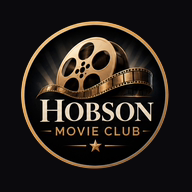
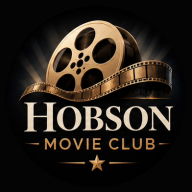
feat: midnight blue and gold look (design F-2b) (#34)
* feat: midnight blue and gold look (design F-2b)

* feat: flat F-2b layout (curtain header, no boxed cards, centred movie)

* fix: remove default fieldset border on survey questions

* feat: curtain-style emails, gold checkboxes and radios

* feat: ringless app icons that fill the square; round header logo with CSS gold outline

---------

diff --git a/css/style.css b/css/style.css
@@ -1,38 +1,54 @@
-/* Look borrowed from spotle.movie: deep navy, soft white text, gold glowing buttons.
+/* Look: "midnight blue and gold" (design option F-2b): deep navy, soft white text, gold buttons, a curtain stripe above the banner.
    Fonts: only stacks whose first choices exist on Windows, Mac, iOS and Android.
    Don't name a font that only exists on some devices (e.g. Impact is missing on phones);
    if we want a special font later, ship the font file in the repo instead. */
-:root { --bg: #060b14; --card: #0d1626; --text: #eaf0ff; --muted: #7f8bab; --accent: #f0b13f; --accent2: #d99a2b; --line: #1d2a44; --err: #ff7a7a; }
+:root { --bg: #090d18; --card: #0f172a; --text: #eaeef7; --muted: #9fb0d0; --accent: #d4af6a; --accent2: #c19e5a; --line: #2a3a66; --err: #ff7a7a; }
 * { box-sizing: border-box; }
 /* Background: on Android Chrome/Brave the screen gets taller when the top bar hides, and a background painted
    on body (or html) stays at the old height until scrolling stops, leaving a white strip. So the page colour is
    solid on html, and the glow is a fixed layer sized to the largest screen (lvh) so it already covers the taller view. */
 html { background-color: var(--bg); color-scheme: dark; }
-body { margin: 0; color: var(--text); font: 17px/1.5 system-ui, -apple-system, "Segoe UI", Roboto, sans-serif; }
+body { margin: 0; color: var(--text); font: 17px/1.55 Georgia, "Times New Roman", serif; }
+button, input, select, textarea, .hint { font-family: system-ui, -apple-system, "Segoe UI", Roboto, sans-serif; }
 body::before { content: ""; position: fixed; top: 0; left: 0; right: 0; height: 100%; height: 100lvh; z-index: -1; pointer-events: none;
-  background: radial-gradient(ellipse at top, #0f1c36 0%, transparent 55%) no-repeat; }
-header { max-width: 720px; margin: 0 auto; padding: 16px 16px 8px; text-align: right; }
+  background: radial-gradient(ellipse at top, #14224a 0%, transparent 55%) no-repeat; }
+/* Full-width curtain band at the top of every page (F-2b). */
+header { position: relative; margin: 0 0 8px; }
 h1 { margin: 0; }
-h1 img { display: block; width: 100%; height: auto; border-radius: 14px; border: 1px solid var(--line); }
-h2 { font: 600 1.4rem/1.2 Georgia, "Times New Roman", serif; letter-spacing: .02em; }
+h1.curtain { background: repeating-linear-gradient(90deg, #14224a 0 26px, #0d1836 26px 52px); border-bottom: 3px solid var(--accent); padding: 14px 16px; }
+h1.curtain a { display: flex; flex-direction: column; align-items: center; gap: 8px; color: var(--accent); text-decoration: none; }
+h1.curtain img { width: 72px; height: 72px; border-radius: 50%; border: 2px solid var(--accent); }
+h1.curtain span { font: 600 12px/1 system-ui, -apple-system, "Segoe UI", Roboto, sans-serif; letter-spacing: .34em; text-transform: uppercase; }
+h2 { font: italic 400 1.7rem/1.2 Georgia, "Times New Roman", serif; letter-spacing: .02em; text-align: center; margin: 22px 0 18px; }
+h2::after { content: ""; display: block; width: 60px; height: 2px; background: var(--accent); margin: 12px auto 0; }
 main { max-width: 720px; margin: 0 auto; padding: 0 16px 64px; }
-.card { background: var(--card); border: 1px solid var(--line); border-radius: 14px; padding: 18px; margin-bottom: 16px; }
-fieldset.card { min-inline-size: 0; }
+/* Not a boxed card: a plain section with a thin line above it (F-2b). */
+.card { border-top: 1px solid var(--line); padding: 18px 0; margin: 0; }
+fieldset.card { min-inline-size: 0; border: 0; border-top: 1px solid var(--line); margin: 0; }
 /* Floating the legend makes it sit inside the card instead of straddling the top border. */
 legend { float: left; width: 100%; padding: 0 0 10px; font-weight: 600; }
 legend + * { clear: both; }
 label { display: block; padding: 6px 0; cursor: pointer; }
 label.disabled { opacity: .4; cursor: not-allowed; }
-input[type=checkbox], input[type=radio] { margin-right: 8px; accent-color: var(--accent); transform: scale(1.2); }
-input[type=text], input[type=email], textarea { width: 100%; background: #08101e; color: var(--text); border: 1px solid var(--line); border-radius: 10px; padding: 10px; font: inherit; margin: 4px 0; }
+/* Gold-outlined boxes and circles (F-2b); the gold fill with a dark tick shows when chosen. */
+input[type=checkbox], input[type=radio] { appearance: none; -webkit-appearance: none; width: 20px; height: 20px; margin: 0 10px -4px 0; border: 1px solid var(--accent); background: transparent; display: inline-grid; place-content: center; cursor: pointer; }
+input[type=checkbox] { border-radius: 4px; }
+input[type=radio] { border-radius: 50%; }
+input[type=checkbox]::before, input[type=radio]::before { content: ""; width: 10px; height: 10px; background: var(--accent); transform: scale(0); transition: transform .1s; }
+input[type=checkbox]::before { clip-path: polygon(14% 44%, 0 65%, 50% 100%, 100% 16%, 80% 0, 43% 62%); width: 12px; height: 12px; }
+input[type=radio]::before { border-radius: 50%; }
+input:checked::before { transform: scale(1); }
+input[type=checkbox]:checked, input[type=radio]:checked { background: transparent; }
+input[type=checkbox]:focus-visible, input[type=radio]:focus-visible { outline: 2px solid var(--accent); outline-offset: 2px; }
+input[type=text], input[type=email], textarea { width: 100%; background: #0a1020; color: var(--text); border: 1px solid var(--line); border-radius: 10px; padding: 10px; font: inherit; margin: 4px 0; }
 input:focus, textarea:focus { outline: 2px solid var(--accent); outline-offset: 1px; }
 textarea { min-height: 90px; resize: vertical; }
-button { background: linear-gradient(180deg, var(--accent), var(--accent2)); color: #1a1100; border: 0; border-radius: 12px; padding: 14px 28px; font: inherit; font-weight: 700; letter-spacing: .06em; text-transform: uppercase; cursor: pointer; box-shadow: 0 0 22px rgba(240, 177, 63, .28); }
+button { background: var(--accent); color: #0a1020; border: 0; border-radius: 10px; padding: 15px 28px; font-size: 1rem; font-weight: 700; letter-spacing: .1em; text-transform: uppercase; cursor: pointer; }
 button:hover:not(:disabled) { filter: brightness(1.08); }
 button:disabled { opacity: .5; cursor: default; box-shadow: none; }
 /* Quiet secondary button, used on the lab and admin pages. */
-button.ghost { background: transparent; color: var(--muted); border: 1px solid var(--line); box-shadow: none; text-transform: none; letter-spacing: 0; font-weight: 500; padding: 8px 14px; margin-bottom: 14px; }
-#signout { margin-top: 10px; background: var(--card); color: var(--muted); border: 1px solid var(--line); box-shadow: none; padding: 8px 14px; font-size: .8rem; }
+button.ghost { background: transparent; color: var(--accent); border: 1px solid var(--accent); box-shadow: none; text-transform: none; letter-spacing: 0; font-weight: 500; padding: 8px 14px; margin-bottom: 14px; }
+#signout { position: absolute; top: 10px; right: 12px; margin: 0; background: rgba(9, 13, 24, .7); color: var(--muted); border: 1px solid var(--line); box-shadow: none; padding: 6px 12px; font-size: .75rem; }
 button.muted { background: transparent; box-shadow: none; text-transform: none; font-weight: 500; letter-spacing: 0; }
 .muted { color: var(--muted); }
 .error { color: var(--err); }

diff --git a/supabase/email-templates/magic-link.html b/supabase/email-templates/magic-link.html
@@ -1,25 +1,26 @@
 <!doctype html>
 <html lang="en">
-<body style="margin:0;padding:0;background-color:#060b14;">
-<table role="presentation" width="100%" cellpadding="0" cellspacing="0" border="0" bgcolor="#060b14" style="background-color:#060b14;">
+<body style="margin:0;padding:0;background-color:#090d18;">
+<table role="presentation" width="100%" cellpadding="0" cellspacing="0" border="0" bgcolor="#090d18" style="background-color:#090d18;">
   <tr><td align="center" style="padding:24px 12px;">
     <table role="presentation" width="100%" cellpadding="0" cellspacing="0" border="0" style="max-width:560px;">
-      <tr><td style="padding-bottom:16px;">
-        <a href="https://hobsonmovieclub.com/"><img src="https://hobsonmovieclub.com/img/banner.jpg" alt="Hobson Movie Club" width="560" style="display:block;width:100%;max-width:560px;height:auto;border:0;border-radius:12px;"></a>
+      <tr><td align="center" bgcolor="#14224a" style="background-color:#14224a;background-image:repeating-linear-gradient(90deg,#14224a 0,#14224a 26px,#0d1836 26px,#0d1836 52px);border-bottom:3px solid #d4af6a;padding:16px 12px;">
+        <a href="https://hobsonmovieclub.com/" style="text-decoration:none;"><img src="https://hobsonmovieclub.com/img/logo-round.png" alt="" width="68" height="68" style="display:block;margin:0 auto 8px;width:68px;height:68px;border:2px solid #d4af6a;border-radius:36px;"><span style="font-family:Arial,Helvetica,sans-serif;font-size:12px;font-weight:bold;letter-spacing:4px;text-transform:uppercase;color:#d4af6a;">Hobson Movie Club</span></a>
       </td></tr>
-      <tr><td bgcolor="#0d1626" style="background-color:#0d1626;border:1px solid #1d2a44;border-radius:12px;padding:28px 24px;font-family:Arial,Helvetica,sans-serif;color:#eaf0ff;font-size:16px;line-height:1.5;">
-        <h1 style="margin:0 0 12px;font-family:Georgia,'Times New Roman',serif;font-size:24px;line-height:1.25;font-weight:bold;color:#eaf0ff;">Sign in to Hobson Movie Club</h1>
-        <p style="margin:0 0 24px;color:#eaf0ff;">Tap the button to sign in. The link works once and expires soon.</p>
+      <tr><td style="height:16px;font-size:0;line-height:0;">&nbsp;</td></tr>
+      <tr><td bgcolor="#0f172a" style="background-color:#0f172a;border-top:1px solid #2a3a66;padding:28px 8px;font-family:Georgia,'Times New Roman',serif;color:#eaeef7;font-size:16px;line-height:1.5;">
+        <h1 style="margin:0 0 12px;font-family:Georgia,'Times New Roman',serif;font-size:24px;line-height:1.25;font-weight:bold;color:#eaeef7;">Sign in to Hobson Movie Club</h1>
+        <p style="margin:0 0 24px;color:#eaeef7;">Tap the button to sign in. The link works once and expires soon.</p>
         <table role="presentation" cellpadding="0" cellspacing="0" border="0" style="margin:0 0 24px;">
-          <tr><td align="center" bgcolor="#f0b13f" style="background-color:#f0b13f;border-radius:10px;">
-            <a href="{{ .ConfirmationURL }}" style="display:inline-block;padding:14px 28px;font-family:Arial,Helvetica,sans-serif;font-size:15px;font-weight:bold;letter-spacing:1px;text-transform:uppercase;color:#1a1100;text-decoration:none;">Sign in</a>
+          <tr><td align="center" bgcolor="#d4af6a" style="background-color:#d4af6a;border-radius:10px;">
+            <a href="{{ .ConfirmationURL }}" style="display:inline-block;padding:14px 28px;font-family:Arial,Helvetica,sans-serif;font-size:15px;font-weight:bold;letter-spacing:1px;text-transform:uppercase;color:#0a1020;text-decoration:none;">Sign in</a>
           </td></tr>
         </table>
-        <p style="margin:0 0 8px;color:#7f8bab;font-size:14px;">On a phone and the button opens the wrong app? Type this code on the sign-in page instead:</p>
-        <table role="presentation" cellpadding="0" cellspacing="0" border="0"><tr><td bgcolor="#08101e" style="background-color:#08101e;border:1px solid #1d2a44;border-radius:10px;padding:12px 20px;font-family:'Courier New',Courier,monospace;font-size:28px;font-weight:bold;letter-spacing:6px;color:#f0b13f;">{{ .Token }}</td></tr></table>
+        <p style="margin:0 0 8px;color:#9fb0d0;font-size:14px;">On a phone and the button opens the wrong app? Type this code on the sign-in page instead:</p>
+        <table role="presentation" cellpadding="0" cellspacing="0" border="0"><tr><td bgcolor="#0a1020" style="background-color:#0a1020;border:1px solid #2a3a66;border-radius:10px;padding:12px 20px;font-family:'Courier New',Courier,monospace;font-size:28px;font-weight:bold;letter-spacing:6px;color:#d4af6a;">{{ .Token }}</td></tr></table>
       </td></tr>
-      <tr><td align="center" style="padding:16px 8px;font-family:Arial,Helvetica,sans-serif;font-size:12px;line-height:1.5;color:#7f8bab;">
-        Hobson Movie Club &middot; <a href="https://hobsonmovieclub.com/" style="color:#7f8bab;">hobsonmovieclub.com</a><br>
+      <tr><td align="center" style="padding:16px 8px;font-family:Arial,Helvetica,sans-serif;font-size:12px;line-height:1.5;color:#9fb0d0;">
+        Hobson Movie Club &middot; <a href="https://hobsonmovieclub.com/" style="color:#9fb0d0;">hobsonmovieclub.com</a><br>
         Didn't ask for this email? You can safely ignore it.
       </td></tr>
     </table>

diff --git a/supabase/email-templates/invite.html b/supabase/email-templates/invite.html
@@ -1,23 +1,24 @@
 <!doctype html>
 <html lang="en">
-<body style="margin:0;padding:0;background-color:#060b14;">
-<table role="presentation" width="100%" cellpadding="0" cellspacing="0" border="0" bgcolor="#060b14" style="background-color:#060b14;">
+<body style="margin:0;padding:0;background-color:#090d18;">
+<table role="presentation" width="100%" cellpadding="0" cellspacing="0" border="0" bgcolor="#090d18" style="background-color:#090d18;">
   <tr><td align="center" style="padding:24px 12px;">
     <table role="presentation" width="100%" cellpadding="0" cellspacing="0" border="0" style="max-width:560px;">
-      <tr><td style="padding-bottom:16px;">
-        <a href="https://hobsonmovieclub.com/"><img src="https://hobsonmovieclub.com/img/banner.jpg" alt="Hobson Movie Club" width="560" style="display:block;width:100%;max-width:560px;height:auto;border:0;border-radius:12px;"></a>
+      <tr><td align="center" bgcolor="#14224a" style="background-color:#14224a;background-image:repeating-linear-gradient(90deg,#14224a 0,#14224a 26px,#0d1836 26px,#0d1836 52px);border-bottom:3px solid #d4af6a;padding:16px 12px;">
+        <a href="https://hobsonmovieclub.com/" style="text-decoration:none;"><img src="https://hobsonmovieclub.com/img/logo-round.png" alt="" width="68" height="68" style="display:block;margin:0 auto 8px;width:68px;height:68px;border:2px solid #d4af6a;border-radius:36px;"><span style="font-family:Arial,Helvetica,sans-serif;font-size:12px;font-weight:bold;letter-spacing:4px;text-transform:uppercase;color:#d4af6a;">Hobson Movie Club</span></a>
       </td></tr>
-      <tr><td bgcolor="#0d1626" style="background-color:#0d1626;border:1px solid #1d2a44;border-radius:12px;padding:28px 24px;font-family:Arial,Helvetica,sans-serif;color:#eaf0ff;font-size:16px;line-height:1.5;">
-        <h1 style="margin:0 0 12px;font-family:Georgia,'Times New Roman',serif;font-size:24px;line-height:1.25;font-weight:bold;color:#eaf0ff;">You're invited to Hobson Movie Club</h1>
-        <p style="margin:0 0 24px;color:#eaf0ff;">The family movie club is back, this time with its own site. Tap the button to join and answer a short survey about how it should work.</p>
+      <tr><td style="height:16px;font-size:0;line-height:0;">&nbsp;</td></tr>
+      <tr><td bgcolor="#0f172a" style="background-color:#0f172a;border-top:1px solid #2a3a66;padding:28px 8px;font-family:Georgia,'Times New Roman',serif;color:#eaeef7;font-size:16px;line-height:1.5;">
+        <h1 style="margin:0 0 12px;font-family:Georgia,'Times New Roman',serif;font-size:24px;line-height:1.25;font-weight:bold;color:#eaeef7;">You're invited to Hobson Movie Club</h1>
+        <p style="margin:0 0 24px;color:#eaeef7;">The family movie club is back, this time with its own site. Tap the button to join and answer a short survey about how it should work.</p>
         <table role="presentation" cellpadding="0" cellspacing="0" border="0" style="margin:0 0 24px;">
-          <tr><td align="center" bgcolor="#f0b13f" style="background-color:#f0b13f;border-radius:10px;">
-            <a href="{{ .ConfirmationURL }}" style="display:inline-block;padding:14px 28px;font-family:Arial,Helvetica,sans-serif;font-size:15px;font-weight:bold;letter-spacing:1px;text-transform:uppercase;color:#1a1100;text-decoration:none;">Join the club</a>
+          <tr><td align="center" bgcolor="#d4af6a" style="background-color:#d4af6a;border-radius:10px;">
+            <a href="{{ .ConfirmationURL }}" style="display:inline-block;padding:14px 28px;font-family:Arial,Helvetica,sans-serif;font-size:15px;font-weight:bold;letter-spacing:1px;text-transform:uppercase;color:#0a1020;text-decoration:none;">Join the club</a>
           </td></tr>
         </table>
       </td></tr>
-      <tr><td align="center" style="padding:16px 8px;font-family:Arial,Helvetica,sans-serif;font-size:12px;line-height:1.5;color:#7f8bab;">
-        Hobson Movie Club &middot; <a href="https://hobsonmovieclub.com/" style="color:#7f8bab;">hobsonmovieclub.com</a><br>
+      <tr><td align="center" style="padding:16px 8px;font-family:Arial,Helvetica,sans-serif;font-size:12px;line-height:1.5;color:#9fb0d0;">
+        Hobson Movie Club &middot; <a href="https://hobsonmovieclub.com/" style="color:#9fb0d0;">hobsonmovieclub.com</a><br>
         Didn't ask for this email? You can safely ignore it.
       </td></tr>
     </table>

diff --git a/css/lab.css b/css/lab.css
@@ -1,5 +1,5 @@
 /* Lab page only. Builds on style.css (colors, buttons, cards). */
-input[type=search] { width: 100%; background: #08101e; color: var(--text); border: 1px solid var(--line); border-radius: 10px; padding: 12px; font: inherit; margin: 4px 0 16px; }
+input[type=search] { width: 100%; background: #0a1020; color: var(--text); border: 1px solid var(--line); border-radius: 10px; padding: 12px; font: inherit; margin: 4px 0 16px; }
 input[type=search]:focus { outline: 2px solid var(--accent); outline-offset: 1px; }
 a { color: var(--accent); }
 h3 { font: 600 1.05rem/1.3 Georgia, "Times New Roman", serif; letter-spacing: .02em; margin: 20px 0 8px; }
@@ -8,28 +8,28 @@ h3 { font: 600 1.05rem/1.3 Georgia, "Times New Roman", serif; letter-spacing: .0
 .results { display: grid; grid-template-columns: repeat(auto-fill, minmax(130px, 1fr)); gap: 14px; }
 .tile { display: flex; flex-direction: column; gap: 4px; text-align: left; background: transparent; box-shadow: none; padding: 0; text-transform: none; letter-spacing: 0; color: var(--text); font-weight: 500; }
 .tile:hover:not(:disabled) .tile-poster { outline: 2px solid var(--accent); }
-.tile-poster { width: 100%; aspect-ratio: 2 / 3; object-fit: cover; border-radius: 10px; border: 1px solid var(--line); }
+.tile-poster { width: 100%; aspect-ratio: 2 / 3; object-fit: cover; border-radius: 2px; border: 1px solid var(--line); }
 .tile-title { font-size: .95rem; line-height: 1.25; }
 .tile-meta { font-size: .8rem; }
 .placeholder { display: flex; align-items: center; justify-content: center; text-align: center; padding: 8px; background: var(--card); color: var(--muted); font-size: .85rem; }
 
 /* movie card */
-.movie { position: relative; overflow: hidden; }
-.backdrop { position: absolute; inset: 0 0 auto 0; width: 100%; height: 180px; object-fit: cover; opacity: .25; mask-image: linear-gradient(#000, transparent); -webkit-mask-image: linear-gradient(#000, transparent); pointer-events: none; }
-.movie-top { position: relative; display: grid; grid-template-columns: 120px 1fr; gap: 16px; }
-.movie-poster { width: 100%; aspect-ratio: 2 / 3; object-fit: cover; border-radius: 10px; border: 1px solid var(--line); box-shadow: 0 8px 24px rgba(0, 0, 0, .5); }
+/* Movie: centred like the F-2b mockup (poster, title, details, then description). */
+.movie { text-align: center; border-top: 0; }
+.backdrop { display: none; }
+.movie-top { display: flex; flex-direction: column; align-items: center; gap: 14px; }
+.movie-poster { width: 170px; aspect-ratio: 2 / 3; object-fit: cover; border: 2px solid var(--accent); }
 .movie-head h2 { margin: 0 0 4px; }
 .movie-head p { margin: 4px 0; }
 .tagline { font-style: italic; color: var(--muted); }
-.chips { display: flex; flex-wrap: wrap; gap: 6px; margin: 8px 0; }
+.chips { display: flex; flex-wrap: wrap; justify-content: center; gap: 6px; margin: 8px 0; }
 .chip { border: 1px solid var(--line); border-radius: 999px; padding: 2px 10px; font-size: .8rem; color: var(--accent); }
 .score strong { font-size: 1.4rem; color: var(--accent); }
 .links a { margin-right: 14px; }
 .overview { position: relative; margin: 16px 0 0; }
-.cast { display: flex; gap: 12px; overflow-x: auto; padding-bottom: 6px; }
+.cast { display: flex; justify-content: center; gap: 12px; overflow-x: auto; padding-bottom: 6px; }
 .cast-member { flex: 0 0 84px; display: flex; flex-direction: column; font-size: .8rem; line-height: 1.25; gap: 2px; }
 .cast-member img, .cast-photo { width: 84px; height: 84px; border-radius: 50%; object-fit: cover; border: 1px solid var(--line); margin-bottom: 4px; }
-@media (min-width: 600px) { .movie-top { grid-template-columns: 180px 1fr; gap: 24px; } }
 
 /* reviews */
 .star-row { display: flex; gap: 4px; margin: 4px 0 10px; }

diff --git a/css/admin.css b/css/admin.css
@@ -1,12 +1,12 @@
 /* Admin page only. Builds on style.css. */
 .tabs { display: flex; gap: 8px; margin: 12px 0 16px; }
-.tabs button { background: var(--card); color: var(--muted); border: 1px solid var(--line); box-shadow: none; padding: 8px 16px; text-transform: none; letter-spacing: 0; font-weight: 500; }
-.tabs button[aria-pressed=true] { background: linear-gradient(180deg, var(--accent), var(--accent2)); color: #1a1100; font-weight: 700; }
+.tabs button { background: transparent; color: var(--muted); border: 1px solid var(--line); box-shadow: none; padding: 8px 16px; text-transform: none; letter-spacing: 0; font-weight: 500; }
+.tabs button[aria-pressed=true] { background: var(--accent); color: #0a1020; font-weight: 700; }
 .q-title { margin: 0 0 4px; font-weight: 600; }
 .q-meta { margin: 0 0 12px; color: var(--muted); font-size: .85rem; }
 .bar-row { display: grid; grid-template-columns: minmax(0, 1fr) 2.2rem; gap: 4px 10px; align-items: center; margin: 6px 0; font-size: .95rem; }
 .bar-row .label { grid-column: 1 / -1; }
-.bar { height: 10px; background: #08101e; border: 1px solid var(--line); border-radius: 6px; overflow: hidden; }
+.bar { height: 10px; background: #0a1020; border: 1px solid var(--line); border-radius: 6px; overflow: hidden; }
 .bar span { display: block; height: 100%; background: linear-gradient(90deg, var(--accent2), var(--accent)); }
 .bar-row .n { text-align: right; color: var(--accent); font-weight: 700; }
 .who { color: var(--muted); font-size: .85rem; }
@@ -27,4 +27,4 @@ button.small { padding: 4px 10px; font-size: .8rem; margin: 0; }
 /* notifications */
 .card label { cursor: default; }
 select, .card input[type=text] { width: 100%; }
-select { background: #08101e; color: var(--text); border: 1px solid var(--line); border-radius: 10px; padding: 10px; font: inherit; margin: 4px 0; }
+select { background: #0a1020; color: var(--text); border: 1px solid var(--line); border-radius: 10px; padding: 10px; font: inherit; margin: 4px 0; }

diff --git a/index.html b/index.html
@@ -3,7 +3,7 @@
 <head>
   <meta charset="utf-8">
   <meta name="viewport" content="width=device-width, initial-scale=1">
-  <meta name="theme-color" content="#060b14">
+  <meta name="theme-color" content="#090d18">
   <title>Hobson Movie Club</title>
   <link rel="icon" type="image/png" href="img/favicon.png">
   <link rel="apple-touch-icon" href="img/apple-touch-icon.png">
@@ -12,7 +12,7 @@
 </head>
 <body>
   <header>
-    <h1><img src="img/banner.jpg" alt="Hobson Movie Club" width="1200" height="298"></h1>
+    <h1 class="curtain"><a href="./"><img src="img/logo-round.png" alt="" width="72" height="72"><span>Hobson Movie Club</span></a></h1>
     <button id="signout" type="button" hidden>Sign out</button>
   </header>
   <main id="app" aria-live="polite"><p>Loading…</p></main>

diff --git a/admin.html b/admin.html
@@ -3,7 +3,7 @@
 <head>
   <meta charset="utf-8">
   <meta name="viewport" content="width=device-width, initial-scale=1">
-  <meta name="theme-color" content="#060b14">
+  <meta name="theme-color" content="#090d18">
   <meta name="robots" content="noindex">
   <title>Admin · Hobson Movie Club</title>
   <link rel="icon" type="image/png" href="img/favicon.png">
@@ -12,7 +12,7 @@
 </head>
 <body>
   <header>
-    <h1><a href="./"><img src="img/banner.jpg" alt="Hobson Movie Club" width="1200" height="298"></a></h1>
+    <h1 class="curtain"><a href="./"><img src="img/logo-round.png" alt="" width="72" height="72"><span>Hobson Movie Club</span></a></h1>
   </header>
   <main id="app" aria-live="polite"><p>Loading…</p></main>
   <script type="module" src="js/admin.js"></script>

diff --git a/lab.html b/lab.html
@@ -3,7 +3,7 @@
 <head>
   <meta charset="utf-8">
   <meta name="viewport" content="width=device-width, initial-scale=1">
-  <meta name="theme-color" content="#060b14">
+  <meta name="theme-color" content="#090d18">
   <meta name="robots" content="noindex">
   <title>Lab · Hobson Movie Club</title>
   <link rel="icon" type="image/png" href="img/favicon.png">
@@ -12,7 +12,7 @@
 </head>
 <body>
   <header>
-    <h1><a href="./"><img src="img/banner.jpg" alt="Hobson Movie Club" width="1200" height="298"></a></h1>
+    <h1 class="curtain"><a href="./"><img src="img/logo-round.png" alt="" width="72" height="72"><span>Hobson Movie Club</span></a></h1>
   </header>
   <main id="app" aria-live="polite"><p>Loading…</p></main>
   <footer class="attribution">

diff --git a/supabase/email-templates/README.md b/supabase/email-templates/README.md
@@ -7,4 +7,4 @@ Supabase keeps these in its dashboard, so this folder is the saved copy. To chan
 | `magic-link.html` | Magic link or OTP | Your Hobson Movie Club sign-in |
 | `invite.html` | Invite user | You're invited to Hobson Movie Club |
 
-Notes: emails only support simple HTML, so layouts use tables and inline styles. The banner loads from https://hobsonmovieclub.com/img/banner.jpg, so do not rename or move that file. `{{ .ConfirmationURL }}` and `{{ .Token }}` are filled in by Supabase.
+Notes: emails only support simple HTML, so layouts use tables and inline styles. The round logo in the header loads from https://hobsonmovieclub.com/img/logo-round.png, so do not rename or move that file. `{{ .ConfirmationURL }}` and `{{ .Token }}` are filled in by Supabase.
